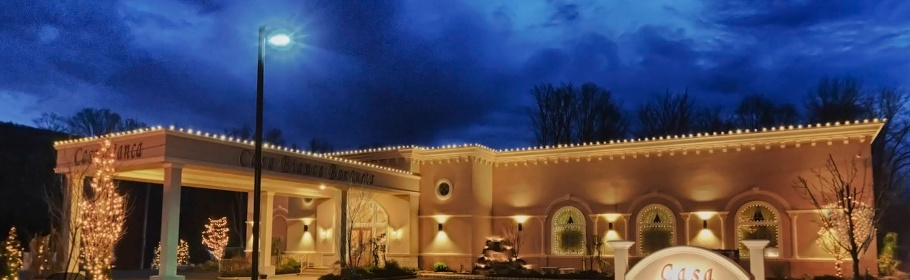
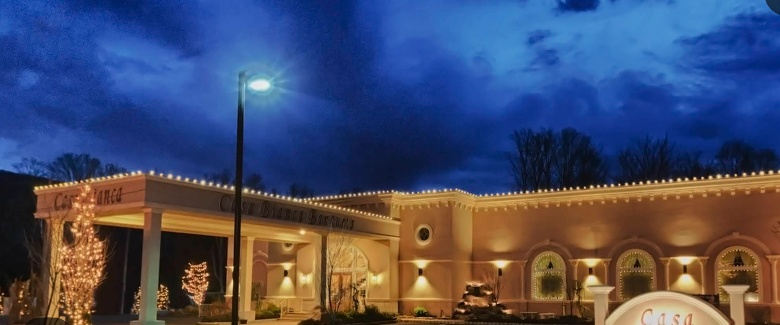
Expand salon venue container to wide landscape arch (220x140 desktop, 155x104 mobile) and re-crop Casa Bianca to showcase illuminated canopy, entrance, fountain, and arched windows

diff --git a/dianalucero/style.css b/dianalucero/style.css
@@ -6066,9 +6066,6 @@ body:not(.site-entered) {
 }
 
 .venue-map-arch {
-  width: 145px;
-  height: 175px;
-  border-radius: 72px 72px 18px 18px;
   overflow: hidden;
   background: #fdfbf7;
   box-shadow:
@@ -6080,6 +6077,18 @@ body:not(.site-entered) {
   flex-shrink: 0;
   display: block;
   text-decoration: none;
+}
+
+.venue-stage-church .venue-map-arch {
+  width: 145px;
+  height: 175px;
+  border-radius: 72px 72px 18px 18px;
+}
+
+.venue-stage-reception .venue-map-arch {
+  width: 220px;
+  height: 140px;
+  border-radius: 46px 46px 16px 16px;
 }
 
 .venue-arch-img {
@@ -6095,7 +6104,7 @@ body:not(.site-entered) {
 }
 
 .venue-arch-img.reception-photo {
-  object-position: center 50%;
+  object-position: 30% center;
 }
 
 .venue-arch-container:hover .venue-arch-img,
@@ -6222,10 +6231,20 @@ body:not(.site-entered) {
     height: 36px;
   }
 
-  .venue-map-arch {
-    width: 120px;
-    height: 154px;
-    border-radius: 60px 60px 14px 14px;
+  .venue-stage-church .venue-map-arch {
+    width: 115px;
+    height: 148px;
+    border-radius: 58px 58px 14px 14px;
+    box-shadow:
+      0 8px 18px rgba(45, 79, 59, 0.14),
+      0 0 0 1.2px #d4af37,
+      0 0 0 2.8px #ffffff;
+  }
+
+  .venue-stage-reception .venue-map-arch {
+    width: 155px;
+    height: 104px;
+    border-radius: 34px 34px 12px 12px;
     box-shadow:
       0 8px 18px rgba(45, 79, 59, 0.14),
       0 0 0 1.2px #d4af37,
@@ -6268,10 +6287,16 @@ body:not(.site-entered) {
     gap: 0.65rem;
   }
 
-  .venue-map-arch {
-    width: 104px;
-    height: 136px;
-    border-radius: 52px 52px 12px 12px;
+  .venue-stage-church .venue-map-arch {
+    width: 100px;
+    height: 130px;
+    border-radius: 50px 50px 12px 12px;
+  }
+
+  .venue-stage-reception .venue-map-arch {
+    width: 135px;
+    height: 92px;
+    border-radius: 28px 28px 10px 10px;
   }
 
   .venue-title {

diff --git a/dianalucero/index.html b/dianalucero/index.html
@@ -44,7 +44,7 @@
     href="https://fonts.googleapis.com/css2?family=Alex+Brush&family=Cormorant+Garamond:ital,wght@0,400;0,500;0,600;0,700;1,400&family=Montserrat:wght@300;400;500;600;700&family=Playfair+Display:ital,wght@0,400;0,600;0,700;1,400&display=swap"
     rel="stylesheet">
 
-  <link rel="stylesheet" href="style.css?v=9.4.9" />
+  <link rel="stylesheet" href="style.css?v=9.5.0" />
 </head>
 
 <body>
@@ -575,7 +575,7 @@
           <a href="https://www.google.com/maps/search/?api=1&amp;query=Casa+Bianca+Banquets+and+Catering,+5266+Berkshire+Valley+Rd,+Oak+Ridge,+NJ+07438"
             target="_blank" rel="noopener noreferrer" class="venue-map-arch venue-photo-arch"
             aria-label="Casa Bianca Banquets and Catering photo and location on Google Maps">
-            <img src="photos/venue-reception.jpg" alt="Casa Bianca Banquets and Catering" class="venue-arch-img reception-photo" />
+            <img src="photos/venue-reception.jpg?v=2" alt="Casa Bianca Banquets and Catering" class="venue-arch-img reception-photo" />
           </a>
         </div>
       </div>
